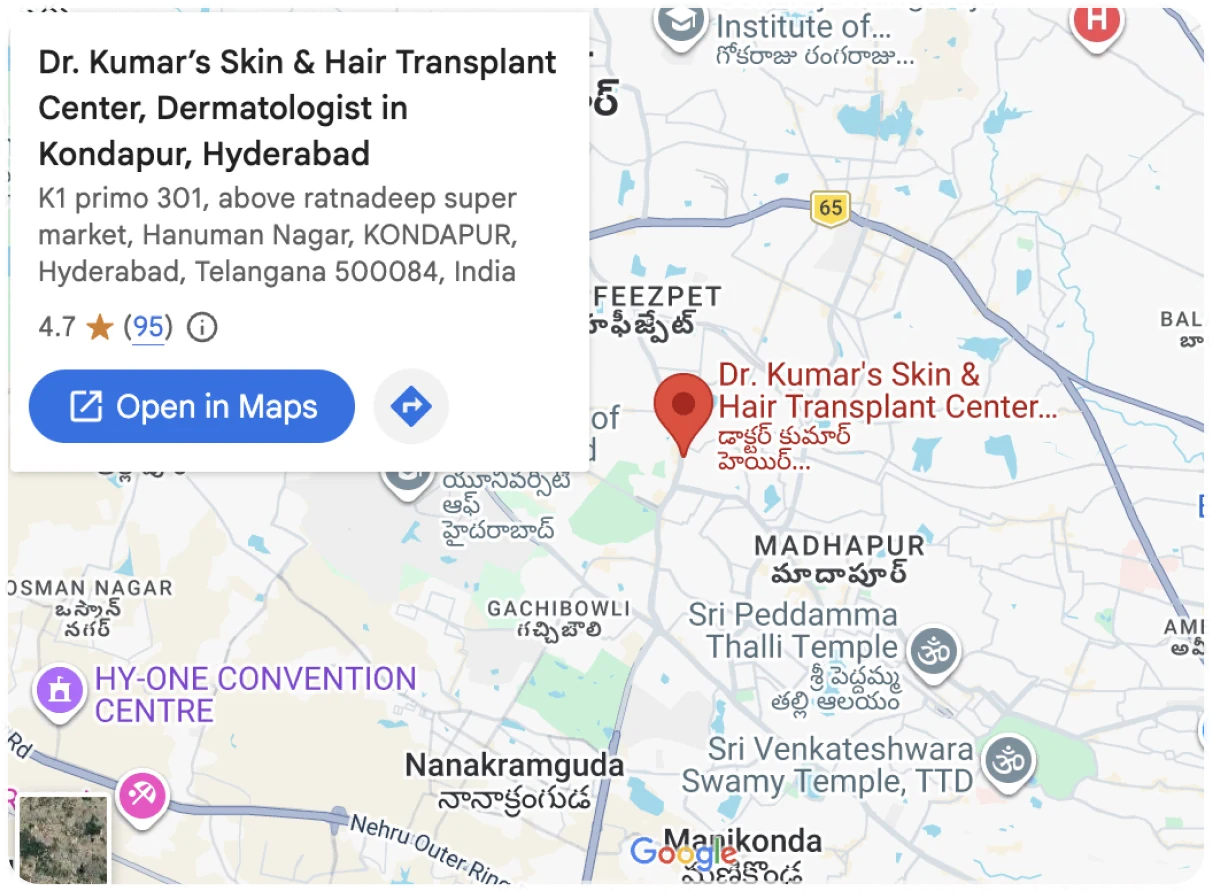
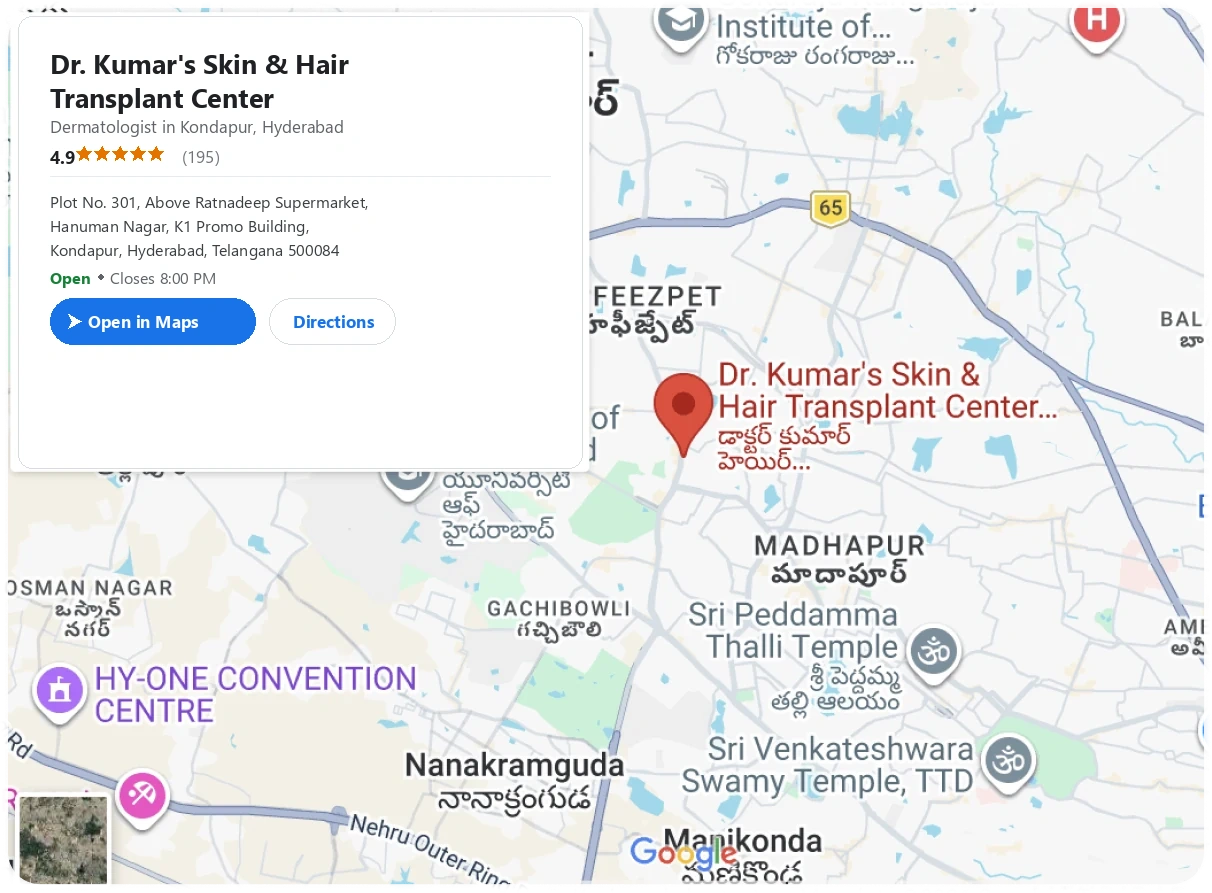
fix(web): resolve map card cut-off and improve responsive layout

Changed region(s): [[0.0, 0.0302, 0.4579, 0.514]]

diff --git a/apps/web/src/components/Appointment.tsx b/apps/web/src/components/Appointment.tsx
@@ -88,9 +88,9 @@ export default function Appointment({ gapAbove = 31, gapBelow = 23 }: { gapAbove
           target="_blank"
           rel="noopener noreferrer"
           aria-label="Open Dr. Kumar's clinic location in Google Maps"
-          className="block overflow-hidden rounded-[16px] border-4 border-white bg-white shadow-[0_0_4px_rgba(0,0,0,0.25)] lg:h-[438px]"
+          className="block h-[320px] overflow-hidden rounded-[16px] border-4 border-white bg-white shadow-[0_0_4px_rgba(0,0,0,0.25)] sm:h-[380px] lg:h-[438px]"
         >
-          <Image src="/images/map.webp" alt="Map showing Dr. Kumar's Skin & Hair Transplant Center, Kondapur, Hyderabad" width={598} height={438} className="h-full w-full object-cover" />
+          <Image src="/images/map.webp" alt="Map showing Dr. Kumar's Skin & Hair Transplant Center, Kondapur, Hyderabad" width={598} height={438} className="h-full w-full object-cover object-left" />
         </a>
       </div>
     </section>

diff --git a/scripts/fix_map.py b/scripts/fix_map.py
@@ -1,0 +1,130 @@
+import subprocess, io, os, math
+from PIL import Image, ImageDraw, ImageFont
+
+def generate_fixed_map():
+    res = subprocess.run(['git', 'show', 'origin/main:apps/web/public/images/map.webp'], capture_output=True)
+    base = Image.open(io.BytesIO(res.stdout)).convert('RGBA')
+
+    # Font loading
+    font_dir = 'C:/Windows/Fonts'
+    f_title = ImageFont.truetype(os.path.join(font_dir, 'segoeuib.ttf'), 27)
+    f_sub = ImageFont.truetype(os.path.join(font_dir, 'segoeui.ttf'), 17)
+    f_rating_val = ImageFont.truetype(os.path.join(font_dir, 'segoeuib.ttf'), 18)
+    f_rating_cnt = ImageFont.truetype(os.path.join(font_dir, 'segoeui.ttf'), 17)
+    f_addr = ImageFont.truetype(os.path.join(font_dir, 'segoeui.ttf'), 16)
+    f_status_b = ImageFont.truetype(os.path.join(font_dir, 'segoeuib.ttf'), 16)
+    f_status = ImageFont.truetype(os.path.join(font_dir, 'segoeui.ttf'), 16)
+    f_btn = ImageFont.truetype(os.path.join(font_dir, 'segoeuib.ttf'), 17)
+
+    # Card dimensions matching original box
+    card_x1, card_y1 = 18, 16
+    card_x2, card_y2 = 582, 468
+    radius = 14
+
+    # Clean inside the card area
+    c_clean = Image.new('RGBA', base.size, (0, 0, 0, 0))
+    clean_draw = ImageDraw.Draw(c_clean)
+    clean_draw.rounded_rectangle([card_x1, card_y1, card_x2, card_y2], radius=radius, fill=(255, 255, 255, 255))
+    base = Image.alpha_composite(base, c_clean)
+
+    # Draw subtle shadow and border
+    card_layer = Image.new('RGBA', base.size, (0, 0, 0, 0))
+    c_draw = ImageDraw.Draw(card_layer)
+    c_draw.rounded_rectangle([card_x1, card_y1, card_x2, card_y2], radius=radius, fill=(255, 255, 255, 255), outline=(218, 220, 224, 255), width=1)
+
+    # Text and elements
+    tx = card_x1 + 32
+    ty = card_y1 + 28
+
+    # Title
+    c_draw.text((tx, ty), "Dr. Kumar's Skin & Hair", font=f_title, fill=(32, 33, 36, 255))
+    ty += 34
+    c_draw.text((tx, ty), "Transplant Center", font=f_title, fill=(32, 33, 36, 255))
+    ty += 36
+
+    # Category
+    c_draw.text((tx, ty), "Dermatologist in Kondapur, Hyderabad", font=f_sub, fill=(95, 99, 104, 255))
+    ty += 30
+
+    # Rating
+    c_draw.text((tx, ty), "4.9", font=f_rating_val, fill=(32, 33, 36, 255))
+    star_x = tx + 34
+
+    # 5 vector stars
+    def draw_star(draw, cx, cy, r_out, r_in, fill):
+        pts = []
+        for i in range(10):
+            angle = i * math.pi / 5 - math.pi / 2
+            r = r_out if i % 2 == 0 else r_in
+            pts.append((cx + r * math.cos(angle), cy + r * math.sin(angle)))
+        draw.polygon(pts, fill=fill)
+
+    for i in range(5):
+        draw_star(c_draw, star_x + i * 18, ty + 10, 8, 3.8, (227, 116, 0, 255))
+
+    cnt_x = star_x + 5 * 18 + 8
+    c_draw.text((cnt_x, ty), "(195)", font=f_rating_cnt, fill=(112, 117, 122, 255))
+    ty += 30
+
+    # Divider line
+    c_draw.line([(tx, ty + 2), (card_x2 - 32, ty + 2)], fill=(232, 234, 237, 255), width=1)
+    ty += 16
+
+    # Address
+    c_draw.text((tx, ty), "Plot No. 301, Above Ratnadeep Supermarket,", font=f_addr, fill=(60, 64, 67, 255))
+    ty += 24
+    c_draw.text((tx, ty), "Hanuman Nagar, K1 Promo Building,", font=f_addr, fill=(60, 64, 67, 255))
+    ty += 24
+    c_draw.text((tx, ty), "Kondapur, Hyderabad, Telangana 500084", font=f_addr, fill=(60, 64, 67, 255))
+    ty += 28
+
+    # Status with dot
+    c_draw.text((tx, ty), "Open", font=f_status_b, fill=(24, 128, 56, 255))
+    c_draw.ellipse([tx + 48, ty + 8, tx + 53, ty + 13], fill=(95, 99, 104, 255))
+    c_draw.text((tx + 60, ty), "Closes 8:00 PM", font=f_status, fill=(95, 99, 104, 255))
+    ty += 32
+
+    # Action buttons
+    # Button 1: Open in Maps (Google Blue Pill)
+    btn_x1 = tx
+    btn_y1 = ty
+    btn_x2 = tx + 205
+    btn_y2 = ty + 46
+    c_draw.rounded_rectangle([btn_x1, btn_y1, btn_x2, btn_y2], radius=23, fill=(26, 115, 232, 255))
+
+    # White navigation arrow
+    arrow_cx = btn_x1 + 24
+    arrow_cy = btn_y1 + 23
+    c_draw.polygon([
+        (arrow_cx - 6, arrow_cy - 7),
+        (arrow_cx + 7, arrow_cy),
+        (arrow_cx - 6, arrow_cy + 7),
+        (arrow_cx - 2, arrow_cy)
+    ], fill=(255, 255, 255, 255))
+    c_draw.text((btn_x1 + 38, btn_y1 + 11), "Open in Maps", font=f_btn, fill=(255, 255, 255, 255))
+
+    btn2_x1 = btn_x2 + 14
+    btn2_x2 = btn2_x1 + 126
+    c_draw.rounded_rectangle([btn2_x1, btn_y1, btn2_x2, btn_y2], radius=23, fill=(255, 255, 255, 255), outline=(218, 220, 224, 255), width=1)
+    c_draw.text((btn2_x1 + 24, btn_y1 + 11), "Directions", font=f_btn, fill=(26, 115, 232, 255))
+
+    final = Image.alpha_composite(base, card_layer)
+    final.save('apps/web/public/images/map.webp', 'WEBP', quality=95)
+    print("map.webp successfully updated!")
+
+    def simulate_object_cover_left(im, target_w, target_h):
+        im_w, im_h = im.size
+        scale = max(target_w / im_w, target_h / im_h)
+        new_w = int(round(im_w * scale))
+        new_h = int(round(im_h * scale))
+        resized = im.resize((new_w, new_h), Image.Resampling.LANCZOS)
+        crop_x = 0
+        crop_y = (new_h - target_h) // 2
+        return resized.crop((crop_x, crop_y, crop_x + target_w, crop_y + target_h))
+
+    sim = simulate_object_cover_left(final, 475, 438)
+    sim.save('C:/Users/LENOVO/.gemini/antigravity/brain/0c35774c-81b8-4f06-b20b-0902c4370c33/sim_1024_v2.png')
+    print("sim_1024_v2.png saved!")
+
+if __name__ == '__main__':
+    generate_fixed_map()
